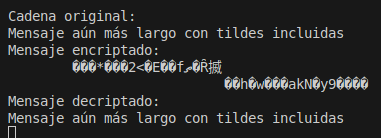
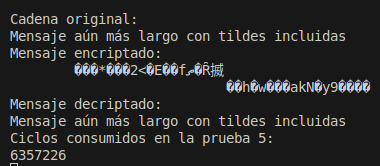
performance

Changed region(s): [[0.0, 0.058, 0.9842, 0.6667], [0.0, 0.5797, 0.8974, 1.0], [0.7237, 0.6957, 0.9263, 0.7826]]

diff --git a/main.c b/main.c
@@ -21,6 +21,31 @@ void print_char(char c) {
     *uart = c;
 }
 
+void print_number(int num) {
+    if (num == 0) {
+        print_char('0');
+        return;
+    }
+    
+    if (num < 0) {
+        print_char('-');
+        num = -num;
+    }
+    
+    char buffer[10];
+    int i = 0;
+    
+    while (num > 0) {
+        buffer[i++] = '0' + (num % 10);
+        num /= 10;
+    }
+    
+    // Print digits in reverse order
+    while (i > 0) {
+        print_char(buffer[--i]);
+    }
+}
+
 void print_string(const char* str) {
     while (*str) {
         print_char(*str++);
@@ -77,8 +102,13 @@ int get_words(int* words, const char* string) {
     return total_words;
 }
 
-int main() {
+static inline unsigned long long get_cycles(void) {
+    unsigned long long cycles;
+    asm volatile ("rdcycle %0" : "=r"(cycles));
+    return cycles;
+}
 
+int main() {
     // Predefined strings for user to choose.
     char* predefined_strings[6] = {
         "HOLA1234",
@@ -102,7 +132,9 @@ int main() {
         // Printing the string the user chose
         print_string("\nCadena original:\n");
         print_words(words, total);
-
+        
+        unsigned long long start = get_cycles();
+        
         for (int i = 0; i < total; i += 2) {
             tea_encrypt(words + i, key); // Calling encryption
         }
@@ -118,6 +150,15 @@ int main() {
         // Printing result of decryption (should be the same as the original string)
         print_string("Mensaje decriptado:\n");
         print_words(words, total);
+
+        unsigned long long end = get_cycles();
+
+        print_string("Ciclos consumidos en la prueba ");
+        print_number(i);
+        print_char(':');
+        print_char('\n');
+        print_number(end - start);
+        print_char('\n');
     }
 
     // Infinite loop to keep QEMU running.

diff --git a/README.md b/README.md
@@ -61,6 +61,29 @@ La impresión se realiza de forma volatil debido al ambiente bare-metal. Cada ca
 
 ## 3. Resultados
 
+![EntornoGDB](images/entorno.png)
+
+Para efectos de resultados, se ejecutaron seis pruebas con mensajes de texto diferentes, de diferente largo, tildes, espacios en blanco, entre otras características. Las pruebas aquí mostradas utilizaron la clave de encriptación propuesta, siendo 0x12345678 0x9ABCDEF0 0xFEDCBA98 0x76543210.
+
+- Prueba 1: HOLA1234
+![Prueba1](images/prueba1.png)
+
+- Prueba 2: Mensaje de prueba para TEA
+![Prueba2](images/prueba2.png)
+
+- Prueba 3: Pizza de pepperoni con salsa
+![Prueba3](images/prueba3.png)
+
+- Prueba 4: El Boeing 777 despega hoy
+![Prueba4](images/prueba4.png)
+
+- Prueba 5: Estamos en septiembre del 2025
+![Prueba5](images/prueba5.png)
+
+- Prueba 6: Mensaje aún más largo con tildes incluidas
+![Prueba6](images/prueba6.png)
+
+Para todos los casos de prueba, se imprime el mensaje encriptado, donde se pueden visualizar carácteres no legibles, y se muestra el mensaje decriptado, el cual coincide con el mensaje original, demostrando el correcto funcionamiento del algoritmo y su implementación.
 
 ---
 
